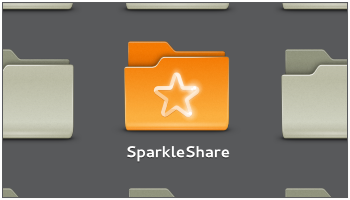
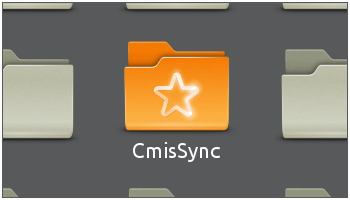
Rebranding on Linux

Changed region(s): [[0.3429, 0.72, 0.6571, 0.81]]

diff --git a/SparkleShare/Linux/SparkleAbout.cs b/SparkleShare/Linux/SparkleAbout.cs
@@ -41,7 +41,7 @@ namespace SparkleShare {
             BorderWidth    = 0;
             IconName       = "folder-sparkleshare";
             WindowPosition = WindowPosition.Center;
-            Title          = "About SparkleShare";
+            Title          = "About CmisSync";
             AppPaintable   = true;
 
             string image_path = new string [] { SparkleUI.AssetsPath, "pixmaps", "about.png" }.Combine ();
@@ -124,7 +124,7 @@ namespace SparkleShare {
                 LineWrap     = true,
                 LineWrapMode = Pango.WrapMode.Word,
                 Markup       = "<span font_size='small' fgcolor='white'>" +
-                               "SparkleShare Open Source software. You are free to use, modify, " +
+                               "CmisSync Open Source software. You are free to use, modify, " +
                                "and redistribute it under the GNU General Public License version 3 or later." +
                                "</span>",
                 WidthRequest = 330,

diff --git a/SparkleShare/Linux/SparkleStatusIcon.cs b/SparkleShare/Linux/SparkleStatusIcon.cs
@@ -134,7 +134,7 @@ namespace SparkleShare {
             this.menu.Add (this.state_item);
             this.menu.Add (new SeparatorMenuItem ());
 
-                ImageMenuItem folder_item = new SparkleMenuItem ("SparkleShare"){
+                ImageMenuItem folder_item = new SparkleMenuItem ("CmisSync"){
                     Image = new Image (SparkleUIHelpers.GetIcon ("folder-sparkleshare", 16))
                 };
 
@@ -242,7 +242,7 @@ namespace SparkleShare {
             this.menu.Add (new SeparatorMenuItem ());
 
 
-                MenuItem about_item = new MenuItem ("About SparkleShare");
+                MenuItem about_item = new MenuItem ("About CmisSync");
 
                 about_item.Activated += delegate {
                     Controller.AboutClicked ();
